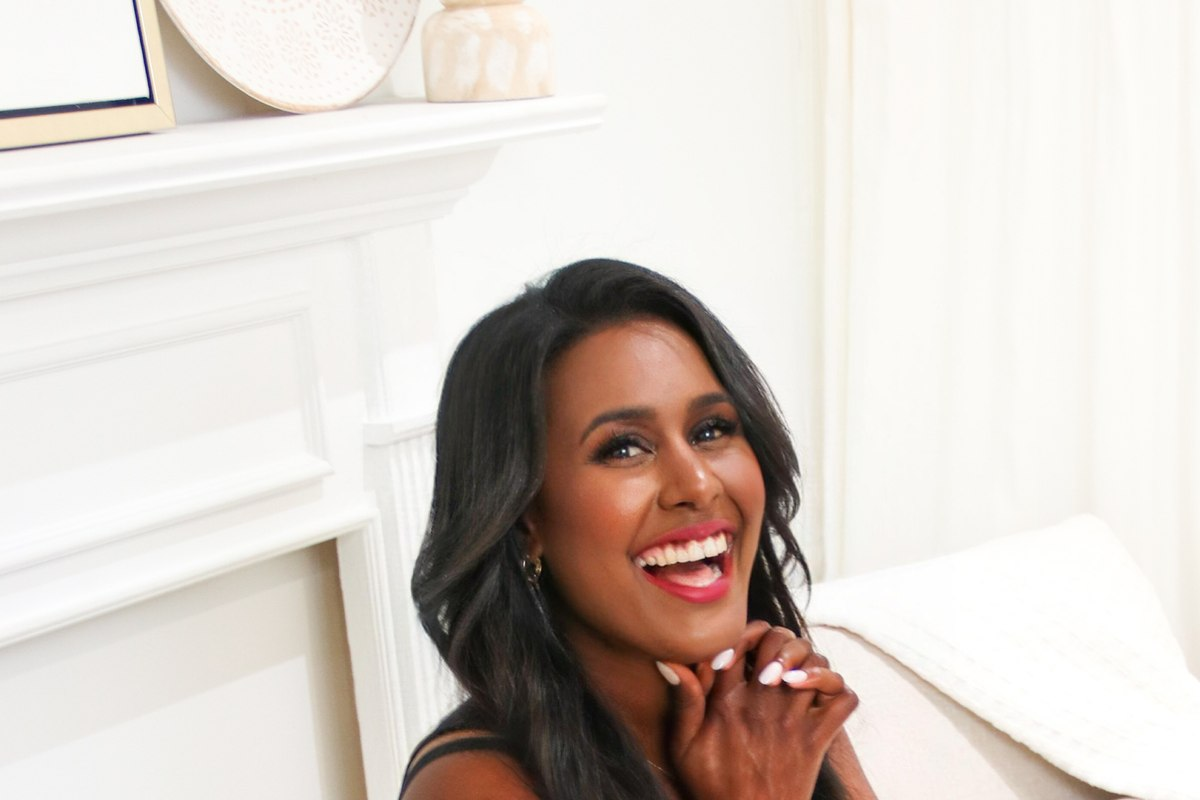
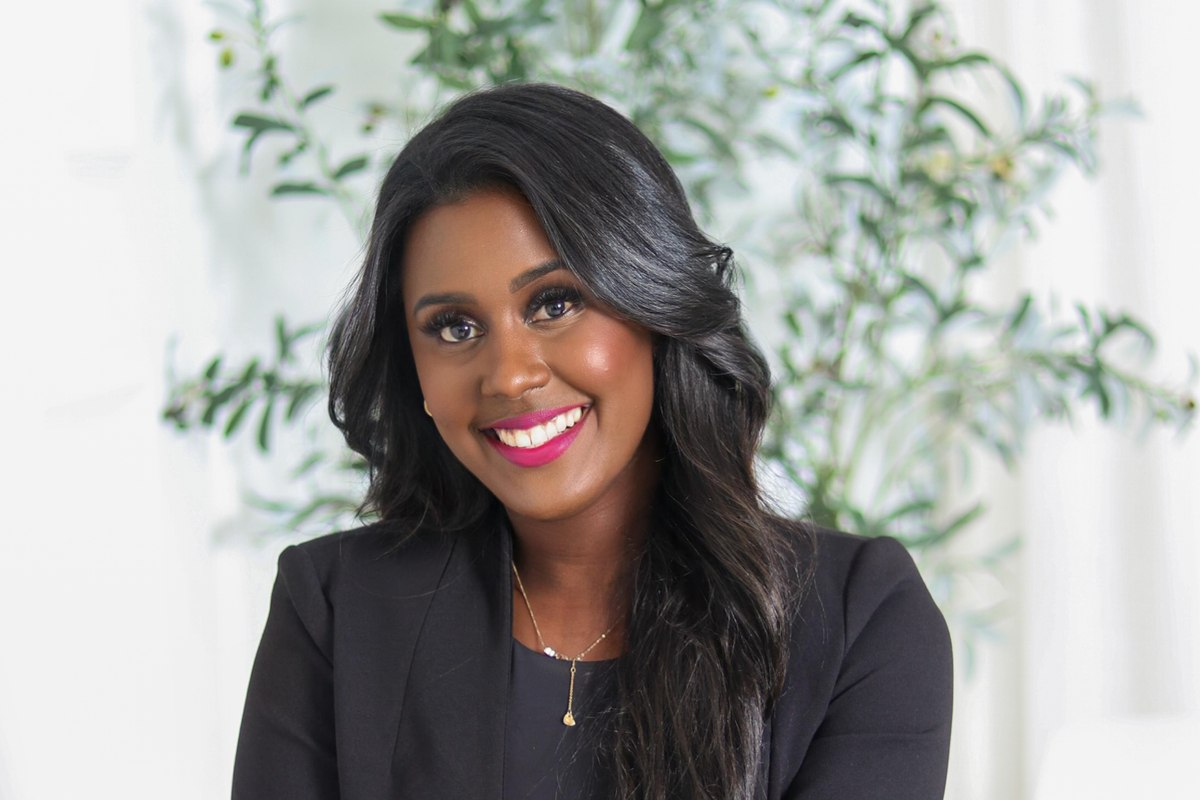
fix: update Cris Emiliano official portrait to IMG_4734_1.JPG

diff --git a/scripts/distribute_images.py b/scripts/distribute_images.py
@@ -42,19 +42,19 @@ def smart_crop_resize(img_path, target_w, target_h, anchor=(0.5, 0.4), quality=8
 TASKS = [
     # ABOUT
     {
-        'src': '001_Cris',
+        'src': 'IMG_4734_1.JPG',
         'dest': 'public/images/about/hero-cris.jpg',
-        'w': 1200, 'h': 800, 'anchor': (0.5, 0.35)
+        'w': 1200, 'h': 800, 'anchor': (0.5, 0.36)
     },
     {
         'src': 'IMG_4734_1.JPG',
         'dest': 'public/images/about/founder-portrait.jpg',
-        'w': 800, 'h': 1100, 'anchor': (0.5, 0.38)
+        'w': 800, 'h': 1100, 'anchor': (0.5, 0.40)
     },
     {
-        'src': 'MB1A7277_2.jpg',
+        'src': '001_Cris',
         'dest': 'public/images/about/founder-camera-bw.jpg',
-        'w': 800, 'h': 800, 'anchor': (0.5, 0.42)
+        'w': 800, 'h': 800, 'anchor': (0.5, 0.35)
     },
     {
         'src': 'IMG_0850.JPEG',
